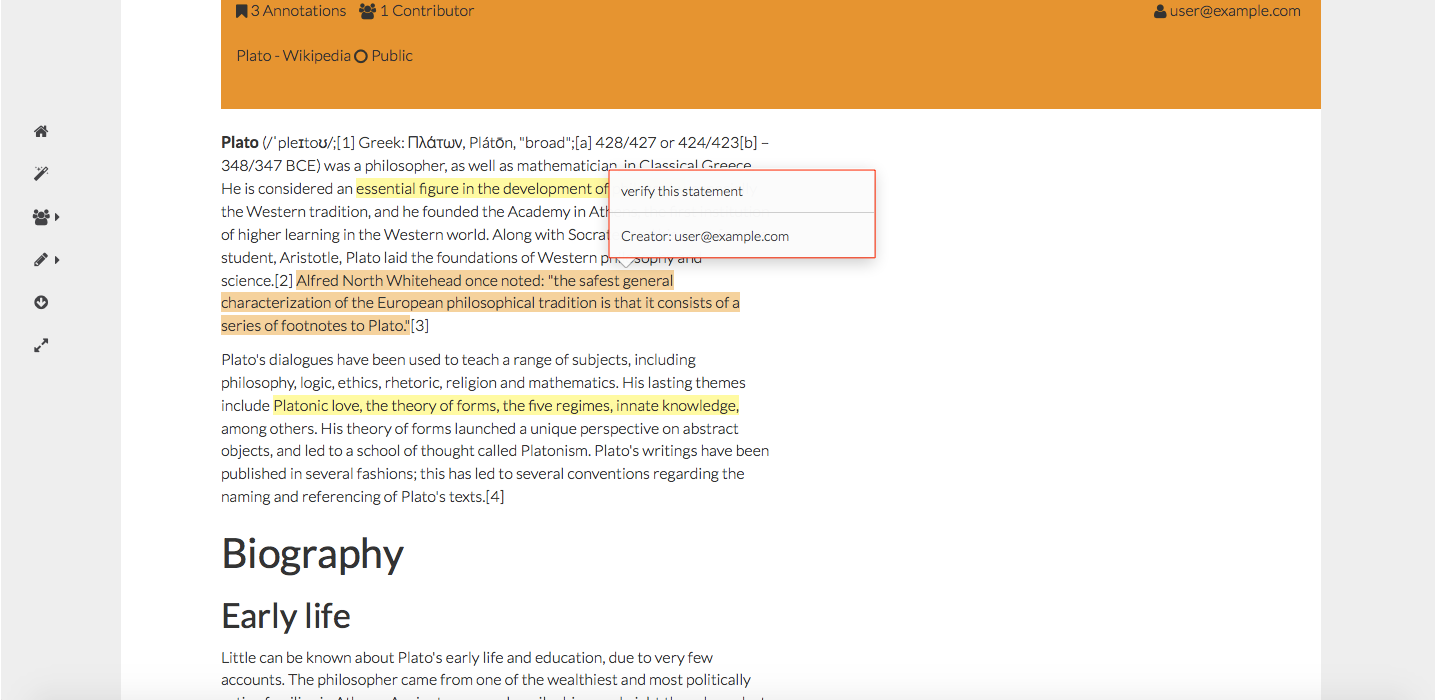
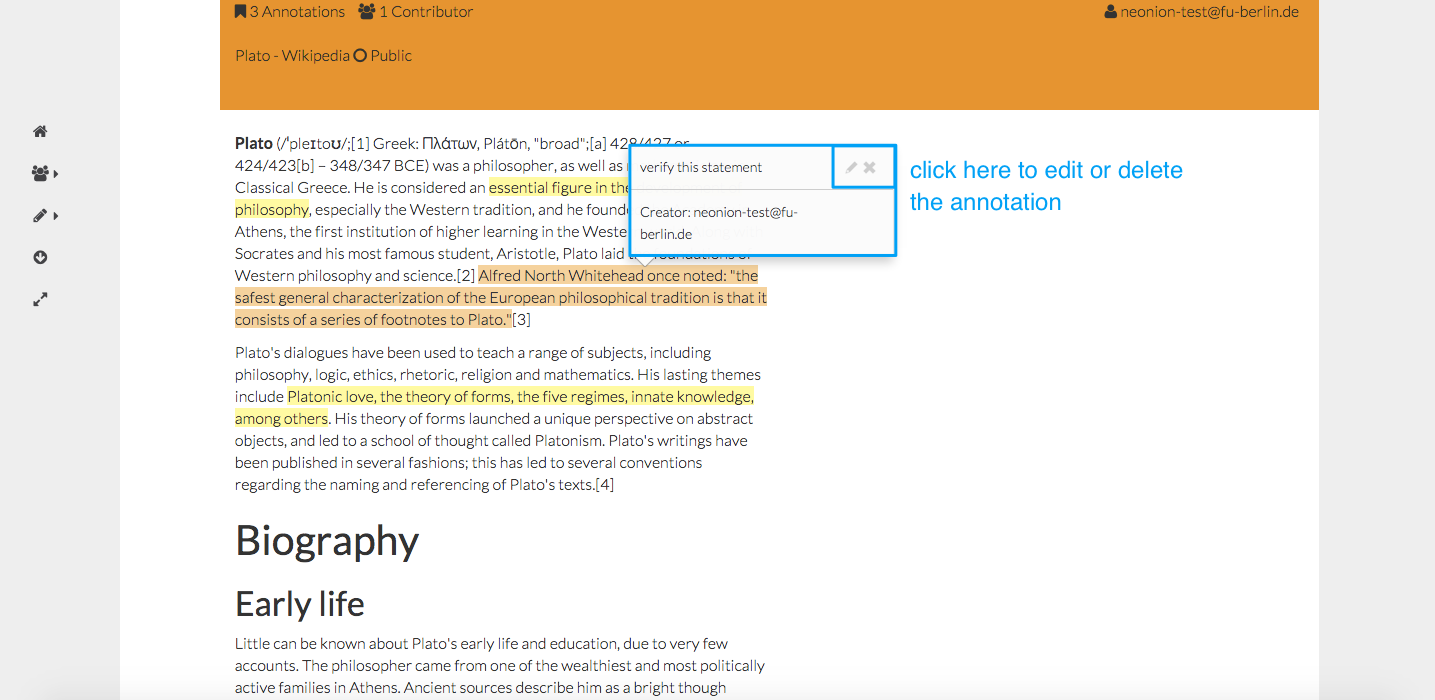
Add changes to tutorial markdown

diff --git a/index.html b/index.html
@@ -7,11 +7,9 @@
   <meta name="viewport" content="width=device-width, initial-scale=1">
 
   <title>neonion - Collaborative Semantic Annotations</title>
-  <meta name="description" content="neonion is a user-centered, web application for the collaborative annotation of texts developed at the Human-Centered Computing group at Freie Universität Berlin.
-">
+  <meta name="description" content="neonion is a user-centered, web application for the collaborative annotation of texts developed at the Human-Centered Computing group at Freie Universität Berlin.">
 
   <link rel="stylesheet" href="/css/main.css">
-  <link rel="canonical" href="http://sklind.github.io/">
   <link rel="alternate" type="application/rss+xml" title="neonion - Collaborative Semantic Annotations" href="http://sklind.github.io/feed.xml">
 </head>
 
@@ -36,10 +34,6 @@
       <div class="trigger">
         
           
-          <a class="page-link" href="/about/">About</a>
-          
-        
-          
         
           
         
@@ -58,21 +52,14 @@
         <div class="home">
 
     
-    <h1 id="neonion-tutorial">Neonion Tutorial</h1>
-
-<p>The following tutorial explains step by step how to get started with neonion. If you want to run it on your machine, please follow the <a href="https://github.com/FUB-HCC/neonion/tree/master">install instructions</a> before continuing.</p>
+    <p>The following user manual explains step by step how to get started with neonion. If you want to run it on your machine, please follow the <a href="https://github.com/FUB-HCC/neonion/tree/master">install instructions</a> before continuing.</p>
 
 <p>You will learn</p>
 
 <ul>
   <li>how to register and login</li>
   <li>how to import a document</li>
-  <li>how to use the user interface
-    <ul>
-      <li>the tool bar</li>
-      <li>the context bar</li>
-    </ul>
-  </li>
+  <li>how to use the annotator interface</li>
   <li>how to annotate
     <ul>
       <li>which annotation modes are available</li>
@@ -80,20 +67,21 @@
   </li>
   <li>how to gain a deeper insight from your annotations
     <ul>
-      <li>giving an overview of your annotations</li>
-      <li>possibility of exporting your annotations via CSV</li>
+      <li>giving an overview of all annotations</li>
+      <li>possibility of exporting all annotations via CSV</li>
     </ul>
   </li>
   <li>how to create your own vocabulary</li>
 </ul>
 
-<h1 id="login">Login</h1>
+<h1 id="register-and-login">Register and Login</h1>
 
 <p>Open the registration page <a href="http://neonion-new.imp.fu-berlin.de/accounts/register">here</a>. On the navigation bar to the left, you can choose to <strong>Sign Up</strong>, if you don’t already have an account. Once you registered with your email address and a password, you can change to the <strong>Sign In</strong> tab to login.</p>
 
-<p><img src="/neonion-internal/images/1SignUp.png" alt="" /></p>
+<p><img src="images/1SignUp.png" alt="" />
+<em>registration page</em></p>
 
-<h1 id="import-a-document-to-your-workspace">Import a document to your workspace</h1>
+<h1 id="import-a-document-to-your-workspace">Import a Document to Your Workspace</h1>
 
 <p>After logging into neonion, you can import the document you want to annotate. Supported formats are text files and PDFs. The workspace is divided into three parts:</p>
 
@@ -103,21 +91,24 @@
   <li>Groups: these are all the documents that were uploaded in groups that you belong to</li>
 </ul>
 
-<p>Public and group workspaces enable to work on a document collaboratively.</p>
+<p>Public and group workspaces enable you to work on a document collaboratively.</p>
 
-<p><img src="/neonion-internal/images/2Workspace.png" alt="" /></p>
+<p><img src="/images/2Workspace.png" alt="" />
+<em>workspaces</em></p>
 
 <p>In this example, we will open the document <strong>Plato - Wikipedia</strong> in the <strong>Public</strong> workspace.</p>
 
-<p><img src="/neonion-internal/images/3PublicDocs.png" alt="" /></p>
+<p><img src="/images/3PublicDocs.png" alt="" />
+<em>documents in public workspace</em></p>
 
-<h1 id="user-interface">User Interface</h1>
+<h1 id="annotator-user-interface">Annotator User Interface</h1>
 
-<p>This is the annotation interface with the context bar on the top and the tool bar to the left.</p>
+<p>This is the annotator interface with the context bar on the top and the tool bar to the left.</p>
 
-<p><img src="/neonion-internal/images/4Interface.png" alt="" /></p>
+<p><img src="/images/4Interface.png" alt="" />
+<em>annotator interface</em></p>
 
-<h2 id="tool-bar">tool bar</h2>
+<h2 id="tool-bar">Tool Bar</h2>
 
 <p>The <strong>tool bar</strong> provides several tools to support the annotation process. The symbols are explained top down.</p>
 
@@ -128,7 +119,7 @@
   <li><strong>Jump to last Annotation</strong>: brings you to the last created annotation in this text</li>
 </ul>
 
-<h2 id="context-bar">context bar</h2>
+<h2 id="context-bar">Context Bar</h2>
 
 <p>The <strong>context bar</strong> shows detailed information about this specific document.</p>
 
@@ -152,98 +143,111 @@
 
 <h3 id="switch-annotation-mode">Switch Annotation Mode</h3>
 
-<p>You can switch the annotation mode through the tool bar or via the shortcuts.</p>
+<p>You can switch the annotation mode through the tool bar or via the shortcuts. The color of the annotation indicates the applied annotation mode: orange for Comments, yellow for Highlights and green for Concept Tags</p>
 
-<p><img src="/neonion-internal/images/5AnnotationMode.png" alt="" /></p>
+<p><img src="/images/5AnnotationMode.png" alt="" />
+<em>annotation modes</em></p>
 
-<h3 id="add-highlights">Add Highlights</h3>
+<h3 id="create-highlights">Create Highlights</h3>
 
-<p>Important text passages can be highlighted.</p>
+<p>Important text passages can be highlighted in order to structure the text.</p>
 
-<p><img src="/neonion-internal/images/5_1Highlight.png" alt="" /></p>
+<p><img src="/images/5_1Highlight.png" alt="" />
+<em>add a highlight</em></p>
 
-<h3 id="add-comments">Add Comments</h3>
+<h3 id="create-comments">Create Comments</h3>
 
 <p>You can also add a comment to a specific part of the text.</p>
 
-<p><img src="/neonion-internal/images/5_2Comment.png" alt="" /></p>
+<p><img src="/images/5_2Comment.png" alt="" />
+<em>add a comment</em></p>
 
-<p>If you hover over a comment, you can see the added text as well as the person who annotated this phrase.</p>
+<p>If you hover over a comment, you can see the added text as well as the person who annotated this phrase. In addition, you have the option to edit or delete the comment.</p>
 
-<p><img src="/neonion-internal/images/5_3Hover.png" alt="" /></p>
+<p><img src="/images/5_3Hover.png" alt="" />
+<em>hover over annotation</em></p>
 
 <h3 id="concept-tagging">Concept Tagging</h3>
 
-<p>Assign a concept to a specific text part. In the following example, we assign the concept <strong>association</strong> (Zusammenschluss) to the <strong>Max-Planck-Gesellschaft</strong>.</p>
+<p>Assign a concept to a specific text part. In the following example, we assign the concept <strong>consortium</strong> to the <strong>Max-Planck-Gesellschaft</strong>.</p>
 
-<p><img src="/neonion-internal/images/5_4ConceptTagging.png" alt="" /></p>
+<p><img src="/images/5_4ConceptTagging.png" alt="" />
+<em>add concept tag to a text part</em></p>
 
 <p>Text parts assigned to the concept <strong>person</strong> can be further identified with a specific person by using a linked data identifier such as the Wikidata Identifier. If there’s no matching suggestion, the person can be categorized as <strong>Unknown Resource</strong>.</p>
 
 <p>Here, we link <strong>Otto Hahn</strong> to <strong>Otto Hahn *1879-03-08 deutscher Chemiker und Nobelpreisträger</strong> from Wikidata.</p>
 
-<p><img src="/neonion-internal/images/5_5ConceptTagging.png" alt="" /></p>
+<p><img src="/images/5_5ConceptTagging.png" alt="" /></p>
 
-<p>In the third step, we can create a link between two entities through a predicate. The possibile predicates for each concept were previously defined in a vocabulary.</p>
+<p>In the third step, we can create a relation between two entities. The possibile relations for each concept are defined in the vocabulary.</p>
 
-<p><img src="/neonion-internal/images/6AddProperty.png" alt="" /></p>
+<p><img src="/images/6AddProperty.png" alt="" /></p>
 
-<h1 id="gain-a-deeper-insight-from-your-annotations">Gain a deeper insight from your annotations</h1>
+<h1 id="gain-a-deeper-insight-from-your-annotations">Gain a Deeper Insight From Your Annotations</h1>
 
 <p>The annotation overview enables you to analyze your results in more depth. On the page of the concept tags, annotations are grouped by concept and then by concept name.</p>
 
-<h2 id="overview-of-annotations">overview of annotations</h2>
+<h2 id="overview-of-annotations">Overview of Annotations</h2>
 
-<p><img src="/neonion-internal/images/7AnnotationsOverview.png" alt="" /></p>
+<p><img src="/images/7AnnotationsOverview.png" alt="" />
+<em>annotation overview</em></p>
 
 <p>The overview gives you further details about every single annotation. You can see how many times a specific concept name has been annotated in how many different documents and when a concept name was annotated for the last time.</p>
 
-<h2 id="csv-export">CSV export</h2>
+<h2 id="csv-export">CSV Export</h2>
 
 <p>To enable the reuse of your annotations, you have the possibility of exporting all annotations including metadata via CSV.</p>
 
-<p><img src="/neonion-internal/images/7_1CSVexport.png" alt="" /></p>
+<p><img src="/images/7_1CSVexport.png" alt="" />
+<em>download CSV file</em></p>
 
-<p><img src="/neonion-internal/images/7_2CSVfile.png" alt="" /></p>
+<p><img src="/images/7_2CSVfile.png" alt="" />
+<em>metadata in CSV file</em></p>
 
 <h1 id="vocabularies">Vocabularies</h1>
 
-<p>You can choose an existing vocabulary or create your own before you start annotating. Every vocabulary must at least contain one concept and every concept can have assigned properties.</p>
+<p>In order to allow Concept Tagging, we can define our own taxonomy with the aid of controlled vocabularies. You can choose an existing vocabulary or create your own before you start annotating. The default vocabulary contains the entitites Consortium, Date, Institution, Person and Person Function. Every vocabulary must at least contain one concept and every concept can have assigned properties.</p>
 
-<h2 id="create-a-new-property">Create a new property</h2>
+<h2 id="create-a-new-property">Create a New Property</h2>
 
 <p>Change to the tab <strong>Properties</strong> and click on the button <strong>Create Property</strong>.</p>
 
-<p><img src="/neonion-internal/images/8CreateProperty.png" alt="" /></p>
+<p><img src="/images/8CreateProperty.png" alt="" />
+<em>listed properties</em></p>
 
 <p>Fill in a label, a description and assign concepts that should have this property. You can additionally add the inverse property.</p>
 
-<p>In the following example, the property is <strong>member</strong> and the assigned concept <strong>Person</strong>. If we construct an inverse property called <strong>member of</strong> with the assigned concept <strong>Institution</strong>, we are then able to construct two relationships:</p>
+<p><img src="/images/9Property.png" alt="" />
+<em>create a new property</em></p>
+
+<p>In the example above, the property is <strong>member</strong> and the assigned concept <strong>Person</strong>. If we construct an inverse property called <strong>member of</strong> with the assigned concept <strong>Institution</strong>, we are then able to construct two relationships:</p>
 
 <ol>
   <li><strong>Person</strong> is <strong>member of</strong> an <strong>Institution</strong></li>
   <li><strong>Institution</strong> has <strong>member</strong> <strong>Person</strong></li>
 </ol>
 
-<p><img src="/neonion-internal/images/9Property.png" alt="" /></p>
-
-<h1 id="create-a-new-concept">Create a new concept</h1>
+<h1 id="create-a-new-concept">Create a New Concept</h1>
 
 <p>Change to the tab <strong>Concepts</strong> and click on the button <strong>Create Concept</strong>.</p>
 
-<p><img src="/neonion-internal/images/10CreateConcept.png" alt="" /></p>
+<p><img src="/images/10CreateConcept.png" alt="" />
+<em>create a new concept</em></p>
 
-<h2 id="create-your-own-vocabulary">Create your own vocabulary</h2>
+<h2 id="create-your-own-vocabulary">Create Your Own Vocabulary</h2>
 
 <p>Click on <strong>Vocabulary</strong> in the navigation menu to see the currently existing vocabularies. You can create a new one if required.</p>
 
-<p><img src="/neonion-internal/images/11CreateConceptSet.png" alt="" /></p>
+<p><img src="/images/11CreateConceptSet.png" alt="" />
+<em>listed vocabularies</em></p>
 
 <p>Fill in a label, a description and add at least one concept to your new vocabulary.</p>
 
 <p>In the following example, we create the vocabulary <strong>research institutions</strong>. This vocabulary contains two concepts: Person and Institution.</p>
 
-<p><img src="/neonion-internal/images/12NewConceptSet.png" alt="" /></p>
+<p><img src="/images/12NewConceptSet.png" alt="" />
+<em>create a new concept set</em></p>
 
 
 </div>
@@ -279,8 +283,7 @@
       </div>
 
       <div class="footer-col footer-col-3">
-        <p>neonion is a user-centered, web application for the collaborative annotation of texts developed at the Human-Centered Computing group at Freie Universität Berlin.
-</p>
+        <p>neonion is a user-centered, web application for the collaborative annotation of texts developed at the Human-Centered Computing group at Freie Universität Berlin.</p>
       </div>
     </div>
 
